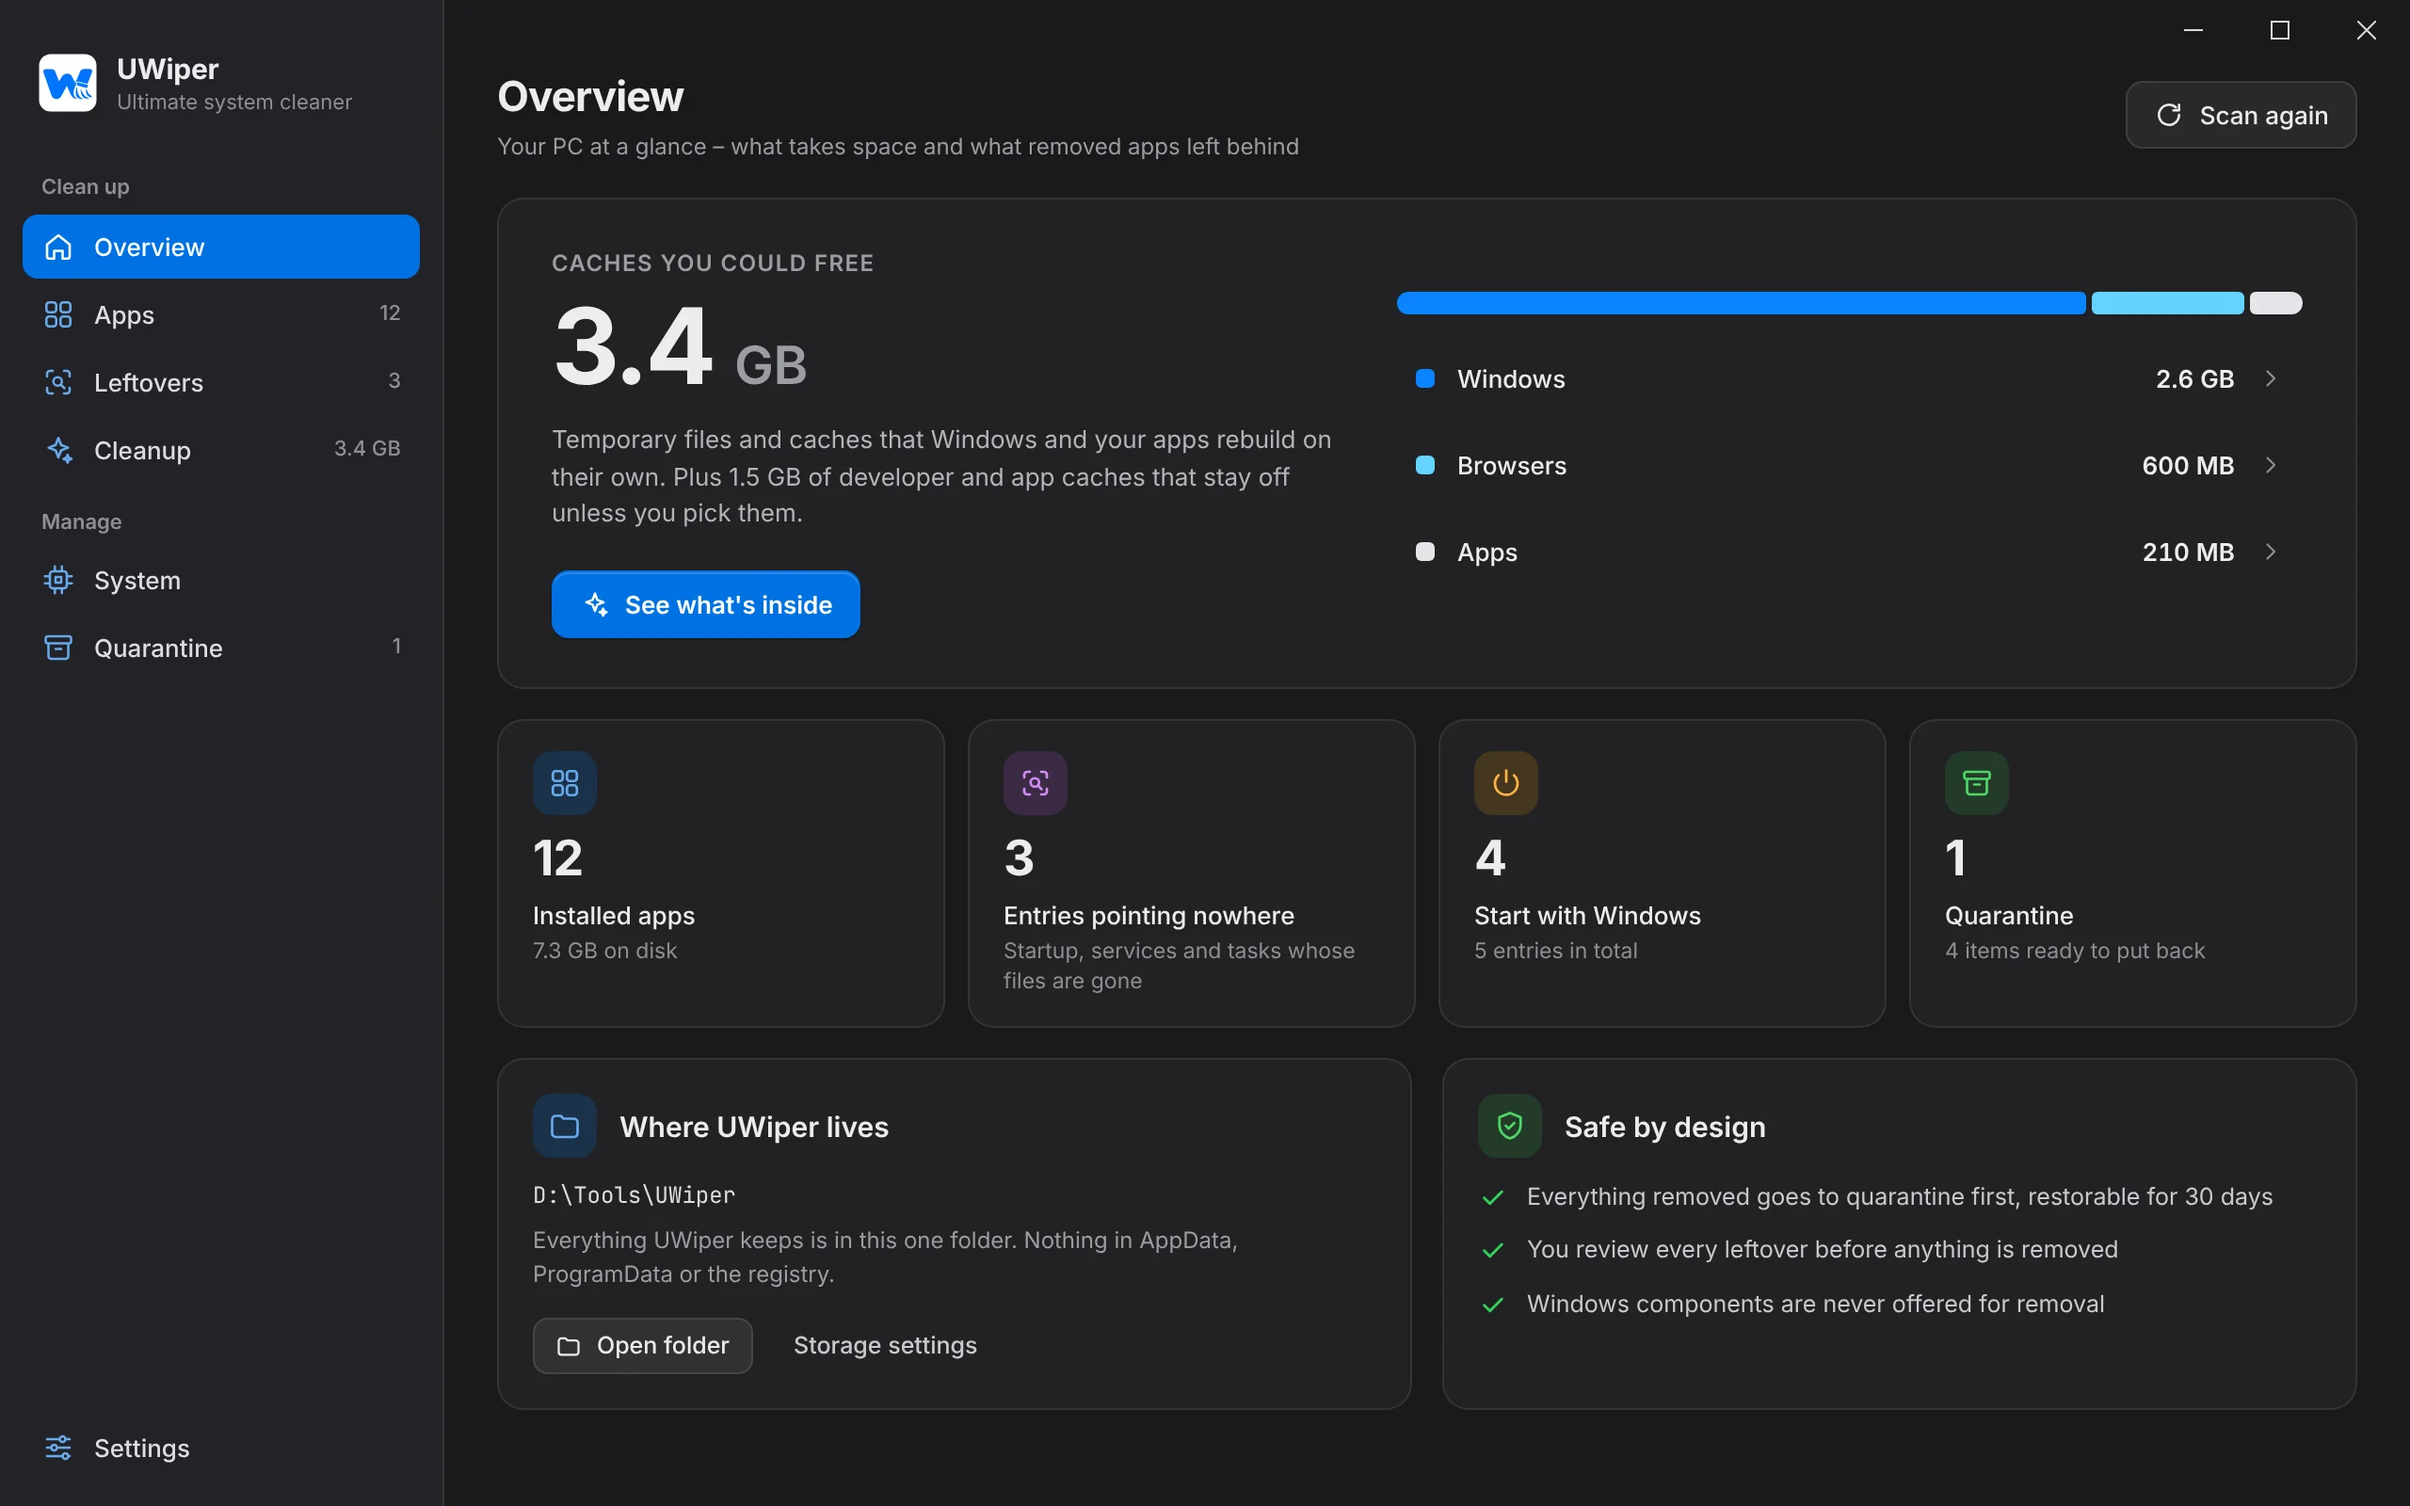
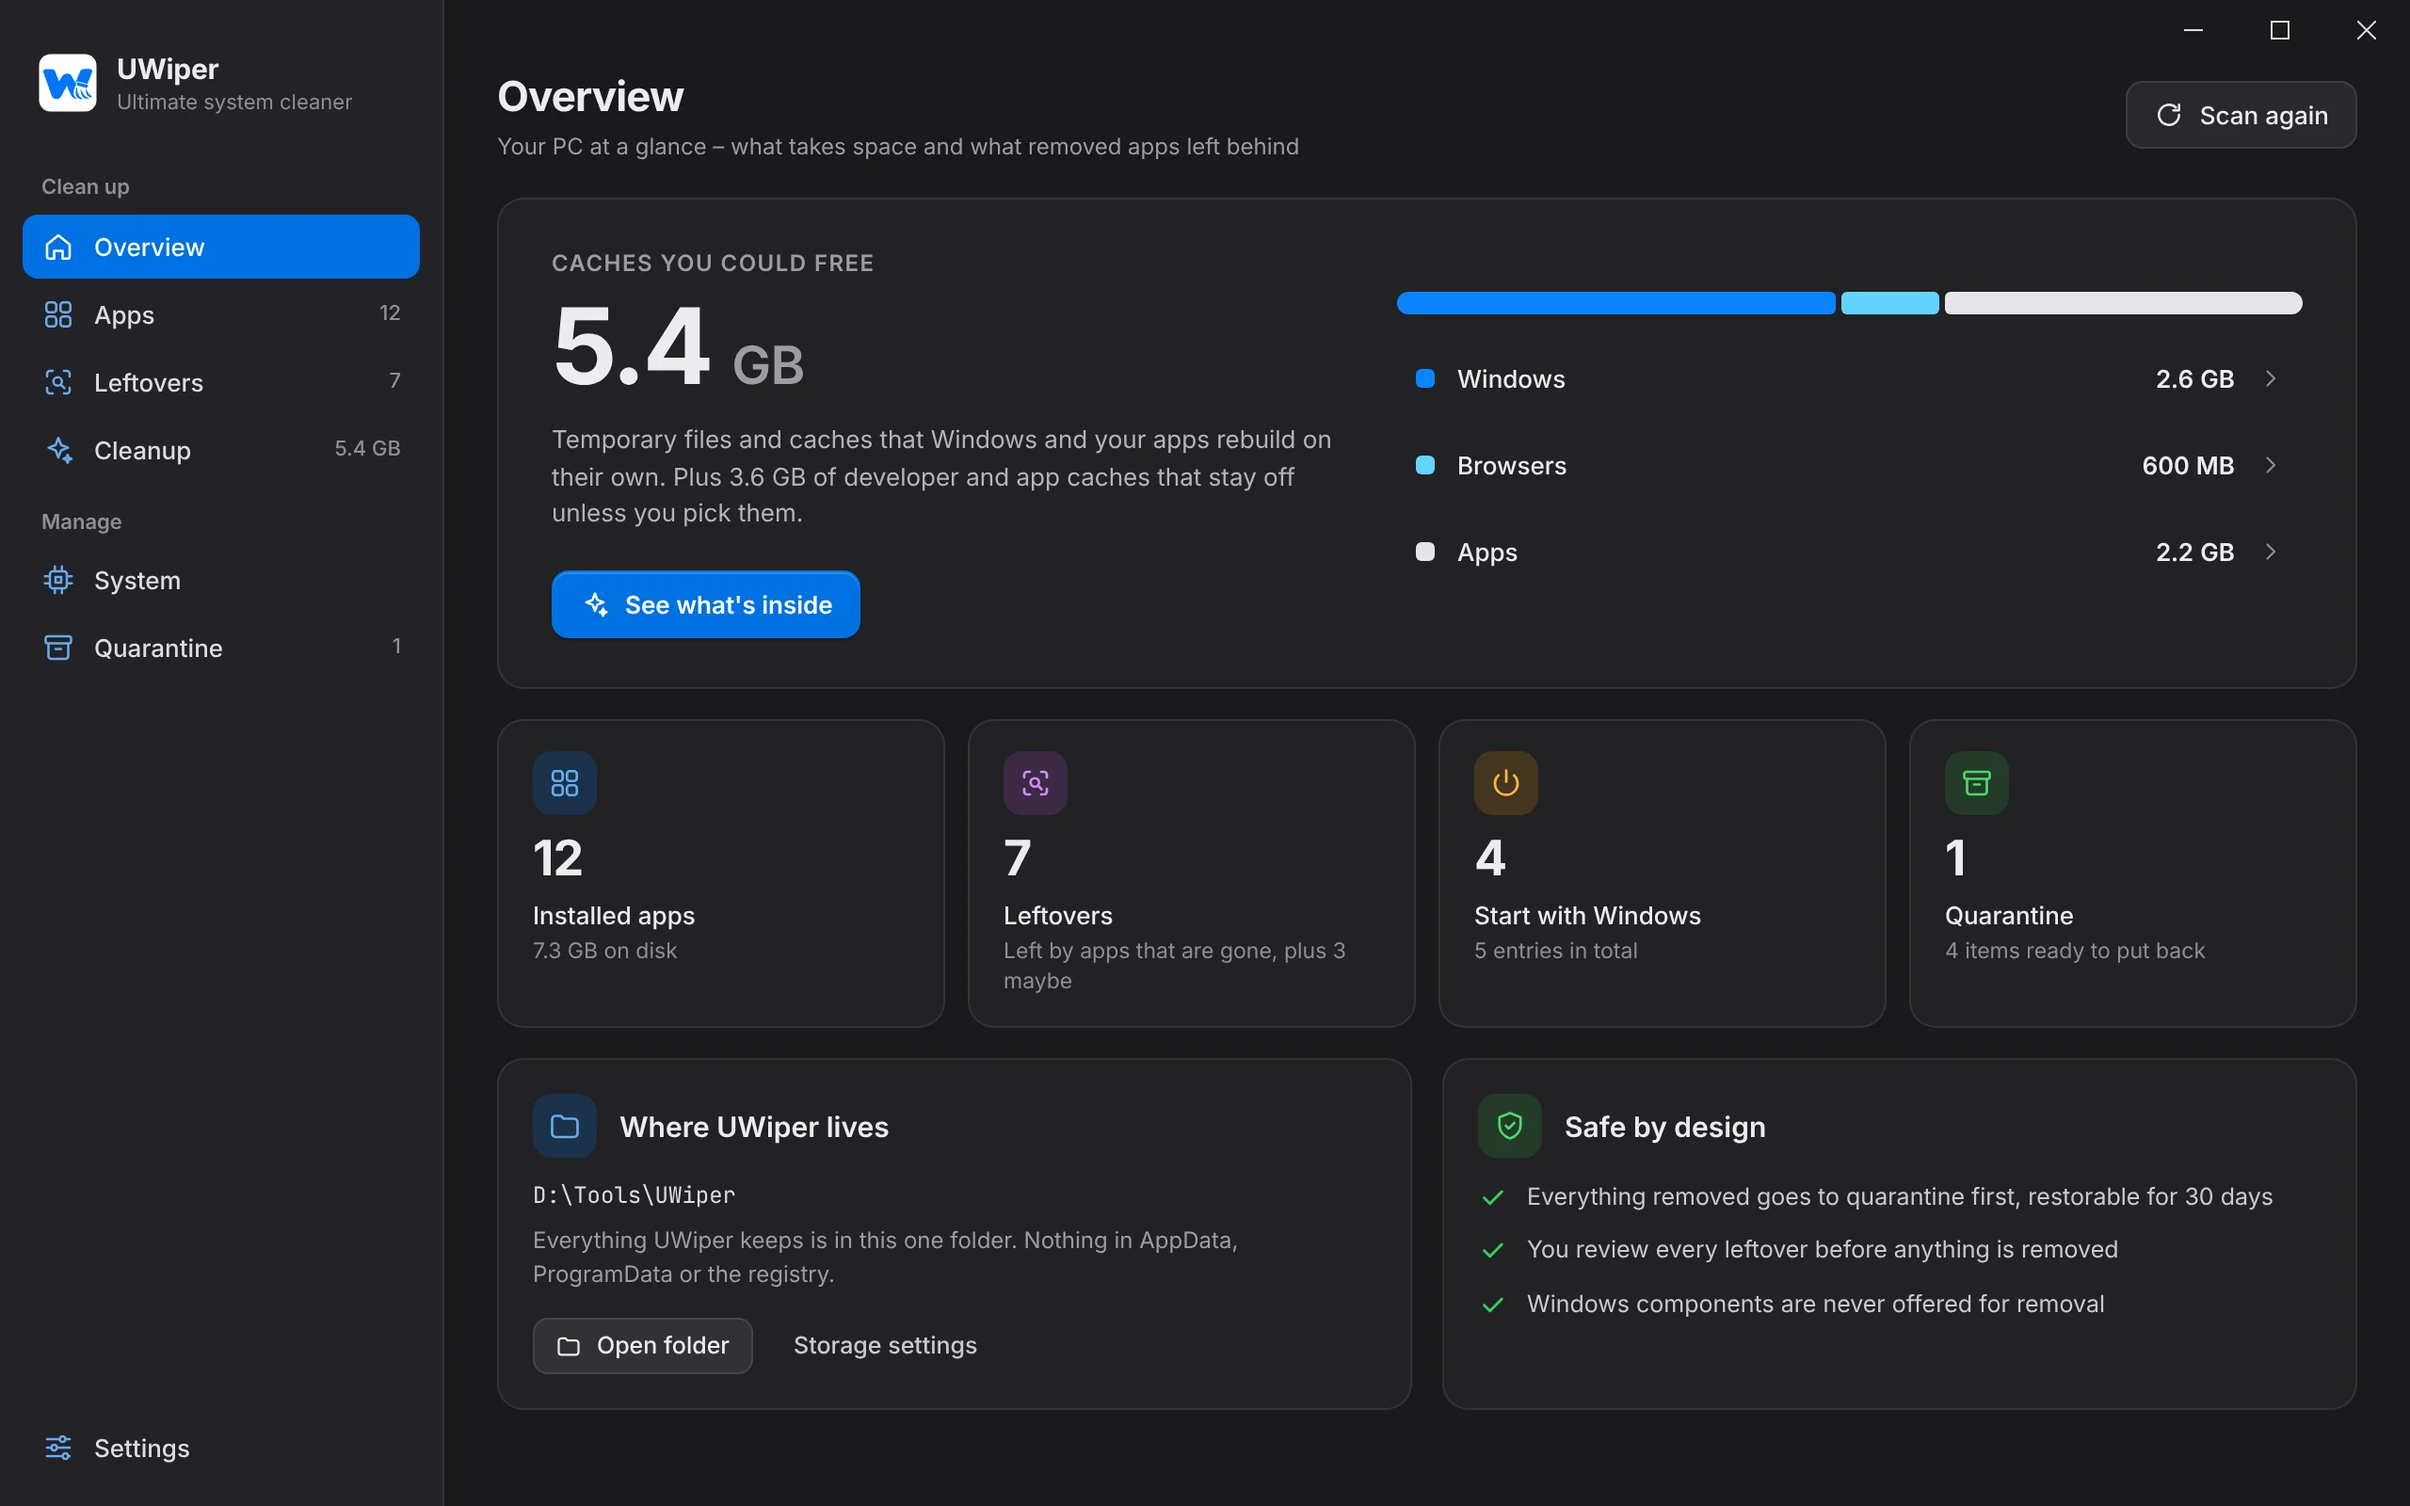
Docs for v0.3, PATH entries in the uninstall scan, 0.3.0-beta.1
- README: roadmap as planned (v0.4 startup, services, tasks and drivers;
  v0.5 install tracking), leftovers and caches features, MIT badge,
  fresh screenshots with the Leftovers page
- CHANGELOG section for 0.3.0-beta.1, version bumped
- The uninstall leftover scan also finds PATH entries in the app's folder

Claude-Session: https://claude.ai/code/session_0151D4o1qPxFYMGVtR97G5ek

diff --git a/frontend/pages/Settings.tsx b/frontend/pages/Settings.tsx
@@ -175,7 +175,7 @@ export function Settings() {
               />
             }
           />
-          <SettingsRow label="Look in" sub="Places UWiper checks after an app is removed. Drivers, firewall rules and PATH arrive in v0.3">
+          <SettingsRow label="Look in" sub="Places UWiper checks after an app is removed. Drivers and firewall rules arrive in v0.4">
             <div className="flex flex-wrap gap-1.5">
               {LOOK_IN.map(([key, label]) => (
                 <Chip key={key} on={scan.lookIn[key]} onToggle={() => set('scan', { lookIn: { ...scan.lookIn, [key]: !scan.lookIn[key] } })}>

diff --git a/frontend/lib/fixtures.ts b/frontend/lib/fixtures.ts
@@ -131,7 +131,7 @@ function storage(): StorageInfo {
 }
 
 // `?admin` in the URL previews the app with administrator rights.
-const environment: Environment = { elevated: new URLSearchParams(window.location.search).has('admin'), windows: true, material: 'none', home: HOME, version: '0.2.0-beta.1' };
+const environment: Environment = { elevated: new URLSearchParams(window.location.search).has('admin'), windows: true, material: 'none', home: HOME, version: '0.3.0-beta.1' };
 
 const DAY = 86_400;
 const now = () => Math.floor(Date.now() / 1000);

diff --git a/frontend/pages/System.tsx b/frontend/pages/System.tsx
@@ -132,7 +132,7 @@ export function System() {
 
       <PageBody>
         {tab === 'drivers' || !resource ? (
-          <Empty icon="cpu" title="Driver packages arrive in v0.3">
+          <Empty icon="cpu" title="Driver packages arrive in v0.4">
             UWiper will list the third-party driver packages in the Driver Store and show which ones no device uses anymore – old
             GPU drivers alone can take gigabytes.
           </Empty>

diff --git a/backend/src/orphans.rs b/backend/src/orphans.rs
@@ -33,6 +33,11 @@ pub struct OrphanScan {
     needs_admin: bool,
 }
 
+/// Every entry of the user's and the system PATH, as written.
+pub fn path_entries() -> Vec<(&'static str, String)> {
+    imp::path_entries()
+}
+
 #[tauri::command]
 pub async fn scan_orphans(state: State<'_, AppState>) -> Result<OrphanScan> {
     let settings = state.settings.lock().unwrap().clone();
@@ -417,7 +422,7 @@ pub fn scan(settings: &Settings) -> Result<OrphanScan> {
     }
 
     // PATH entries and App Paths that point nowhere.
-    for (scope, entry) in imp::path_entries() {
+    for (scope, entry) in path_entries() {
         if is_gone(&entry) == Some(true) {
             let reason = if scope == "machine" {
                 "In the system PATH, but the folder no longer exists"

diff --git a/backend/src/leftovers.rs b/backend/src/leftovers.rs
@@ -590,6 +590,18 @@ pub fn scan(settings: &Settings, app: &AppRef) -> Result<Vec<Leftover>> {
         }
     }
 
+    if look.path {
+        for (scope, entry) in crate::orphans::path_entries() {
+            if inside_install(&expand_env(&entry)) {
+                let target = Target::PathEntry {
+                    scope: scope.into(),
+                    entry,
+                };
+                found.add("environment", target, "In PATH, pointing into the app's folder", "high");
+            }
+        }
+    }
+
     if look.services {
         for service in crate::services::list().unwrap_or_default() {
             let program = service.binary.as_deref().unwrap_or_default();

diff --git a/README.md b/README.md
@@ -8,6 +8,7 @@
   <img src="https://img.shields.io/badge/portable-no%20installer-30D158?style=flat-square" alt="Portable, no installer">
   <a href="https://github.com/danielsoren/uwiper/actions/workflows/build.yml"><img src="https://img.shields.io/github/actions/workflow/status/danielsoren/uwiper/build.yml?style=flat-square&label=build" alt="Build status"></a>
   <img src="https://img.shields.io/badge/built%20with-Tauri%20%2B%20Rust-BF5AF2?style=flat-square" alt="Built with Tauri and Rust">
+  <a href="LICENSE"><img src="https://img.shields.io/badge/license-MIT-8E8E95?style=flat-square" alt="MIT license"></a>
 </p>
 
 <h3 align="center">Uninstalling an app shouldn't leave half of it behind. 🧹</h3>
@@ -36,8 +37,8 @@
 | 🗑 **Uninstall completely** | Runs the app's own uninstaller (MSI too), notices when it's done and scans for leftovers. A System Restore point first, if you like. |
 | 🔎 **Leftovers, explained** | Every find says why it's there and how sure UWiper is: **High** – certainly the app's, **Medium** – named after it, **Low** – may be shared. You tick what goes. |
 | ♻ **Quarantine first** | Files are moved aside, registry keys and services exported to `.reg`, tasks saved as XML. Restore a whole batch in one click. Batches are deleted for good after 30 days (you choose). |
-| 🧹 **Cache cleanup** | Temp files, Windows Update downloads, crash dumps, shader and thumbnail caches, browser caches, npm / pip / Cargo / NuGet / Gradle caches. Cookies, passwords and history are never touched. |
-| 👻 **Entries pointing nowhere** | Startup entries, services and scheduled tasks whose programs are long gone – remove them in one go. |
+| 👻 **Leftovers of apps long gone** | Folders and settings no installed app claims, apps still listed as installed whose files are gone, shortcuts and PATH entries pointing nowhere, startup entries, services and tasks whose programs are missing. Each with how sure UWiper is and when it last changed. |
+| 🧹 **Junk and caches** | Temp files, Windows Update downloads, crash dumps, logs, the Recycle Bin, caches of every Chromium and Firefox browser, Telegram, Discord, Steam and other apps – plus any app cache found by folder name, Store apps included. Cookies, passwords and history are never touched. |
 | 🛡 **Hard to break things with** | Windows and Microsoft components, shared folders, other apps' folders and your own "Never touch" list are always off limits. |
 | 🎒 **Leaves no traces itself** | Fully portable: settings, quarantine, logs and even the WebView profile live next to the exe. Delete the folder and UWiper is gone. |
 
@@ -54,11 +55,11 @@
   </tr>
   <tr>
     <td width="50%"><img src="assets/screenshots/quarantine.webp" alt="Quarantine with batches ready to restore"></td>
-    <td width="50%"><img src="assets/screenshots/settings.webp" alt="Settings: where UWiper keeps its data"></td>
+    <td width="50%"><img src="assets/screenshots/leftovers.webp" alt="Leftovers of apps that are gone"></td>
   </tr>
   <tr>
     <td align="center"><sub><b>Quarantine</b> – put anything back in one click</sub></td>
-    <td align="center"><sub><b>Settings</b> – you decide where everything lives</sub></td>
+    <td align="center"><sub><b>Leftovers</b> of apps that are long gone, with how sure UWiper is</sub></td>
   </tr>
 </table>
 
@@ -72,14 +73,15 @@
 > The exe isn't code-signed yet, so SmartScreen may say "Windows protected your PC" – click **More info → Run anyway**. UWiper needs WebView2, which Windows 10 and 11 already have.
 
 > [!IMPORTANT]
-> v0.2 is the first version that removes things, and it's a beta. Quarantine is on by default – keep it on while you try UWiper out.
+> UWiper removes things, and it's still a beta. Quarantine is on by default – keep it on while you try UWiper out.
 
 ## 🗺 Roadmap
 
-- [x] **v0.1** – see installed apps, caches, startup entries, services and scheduled tasks
-- [x] **v0.2** – uninstall with a leftover scan, quarantine and restore, cache cleaning ← *you are here*
-- [ ] **v0.3** – leftovers of apps removed long ago, Store / MSIX apps, Driver Store packages, firewall rules, PATH entries
-- [ ] **v0.4** – install tracking: snapshot what an installer creates, for a perfect uninstall later
+- [x] **v0.1** – the foundation: design, administrator mode, installed apps
+- [x] **v0.2** – uninstall with a leftover scan, quarantine and restore
+- [x] **v0.3** – entries without an owner, junk and caches ← *you are here*
+- [ ] **v0.4** – startup, services, scheduled tasks and drivers: switch them on and off, remove old driver packages
+- [ ] **v0.5** – install tracking: snapshot what an installer creates, for a perfect uninstall later
 
 Ideas and bug reports are welcome in [Issues](https://github.com/danielsoren/uwiper/issues) 💬
 
@@ -103,9 +105,10 @@ backend/             Rust + Tauri
   src/icons.rs       app icons from exe files, as PNG
   src/uninstall.rs   runs uninstallers, restore points
   src/leftovers.rs   finds what an app left behind
+  src/orphans.rs     finds what apps that are gone left behind
   src/targets.rs     removable things, safety rules, backup and restore
   src/quarantine.rs  quarantine batches
-  src/cleanup.rs     cache and temp file locations, cleaning
+  src/cleanup.rs     caches: known ones, found by name or layout; cleaning
   src/startup.rs     Run keys, Startup folders, StartupApproved state
   src/services.rs    services and their binaries
   src/tasks.rs       scheduled task XML under System32\Tasks
@@ -152,4 +155,4 @@ CI builds on Windows and publishes a GitHub release with `UWiper.exe` and a port
 
 </details>
 
-<p align="center"><sub>Made with ☕ and 🦀 · <a href="https://github.com/danielsoren/uwiper/issues">Report a bug</a></sub></p>
+<p align="center"><sub>Made with ☕ and 🦀 · <a href="LICENSE">MIT license</a> · <a href="https://github.com/danielsoren/uwiper/issues">Report a bug</a></sub></p>

diff --git a/CHANGELOG.md b/CHANGELOG.md
@@ -1,5 +1,39 @@
 # Changelog
 
+## [0.3.0-beta.1] – 2026-10-22
+
+Leftovers of apps that are long gone, and a lot more junk and caches. Still a beta – quarantine stays on by default.
+
+### Download
+
+- **UWiper.exe** – the app itself. Put it in any folder and run it.
+- **UWiper-v0.3.0-beta.1-portable.zip** – the same, in a folder.
+
+### New
+
+- 👻 **Entries without an owner.** The Leftovers page now scans for everything apps that are gone left behind:
+  - folders in AppData, ProgramData and Program Files, and settings in the registry, that no installed app claims;
+  - apps still listed as installed whose uninstaller and folder are gone;
+  - shortcuts and Start menu folders pointing nowhere;
+  - PATH and App Paths entries pointing nowhere;
+  - startup entries, services and tasks whose programs are missing.
+
+  Missing files are certain (High), empty folders and keys likely (Medium), and unclaimed folders and keys only possible (Low – never picked for you). Every find shows when it last changed.
+- 🧹 **More junk and caches.**
+  - Any Chromium or Firefox-based browser is found by its folder layout, not just a list of names.
+  - App caches are found by folder name, Microsoft Store apps included.
+  - Known caches for Telegram, Steam, Teams, Epic Games, Battle.net, Adobe media, Opera, Yandex Browser, Vivaldi, Go, Bun, Maven, Electron, JetBrains IDEs and Unreal Engine.
+  - Also the Recycle Bin (off by default), Windows logs and the Windows internet cache.
+- 📜 **MIT license.**
+
+### Better
+
+- Lists refresh as soon as anything is removed or restored, and data folders get an Open button.
+- Settings is simpler: the "Outside the UWiper folder" section and the Start with Windows option are gone. UWiper keeps nothing outside its folder, and an old startup entry is removed.
+- Cleanup and Quarantine rows expand with an animation.
+- Notes line up with warnings; System's path column lines up across rows.
+- App icons: MSI product icons, and the app's exe one folder down (Adobe Acrobat and others that showed a letter).
+
 ## [0.2.0-beta.1] – 2026-10-21
 
 The first version that removes things. **It's a beta** – quarantine is on by default, so everything UWiper removes can be put back. Please keep it on while you try this version.
